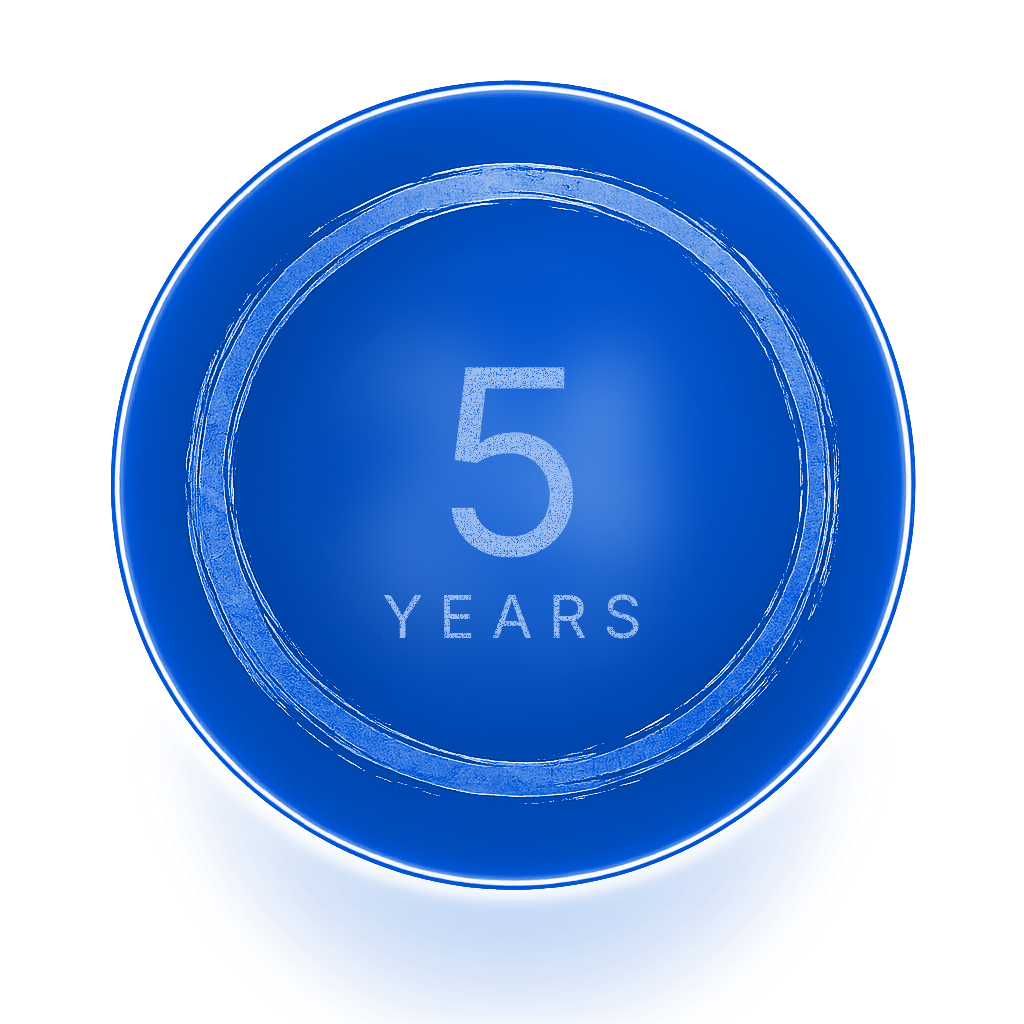
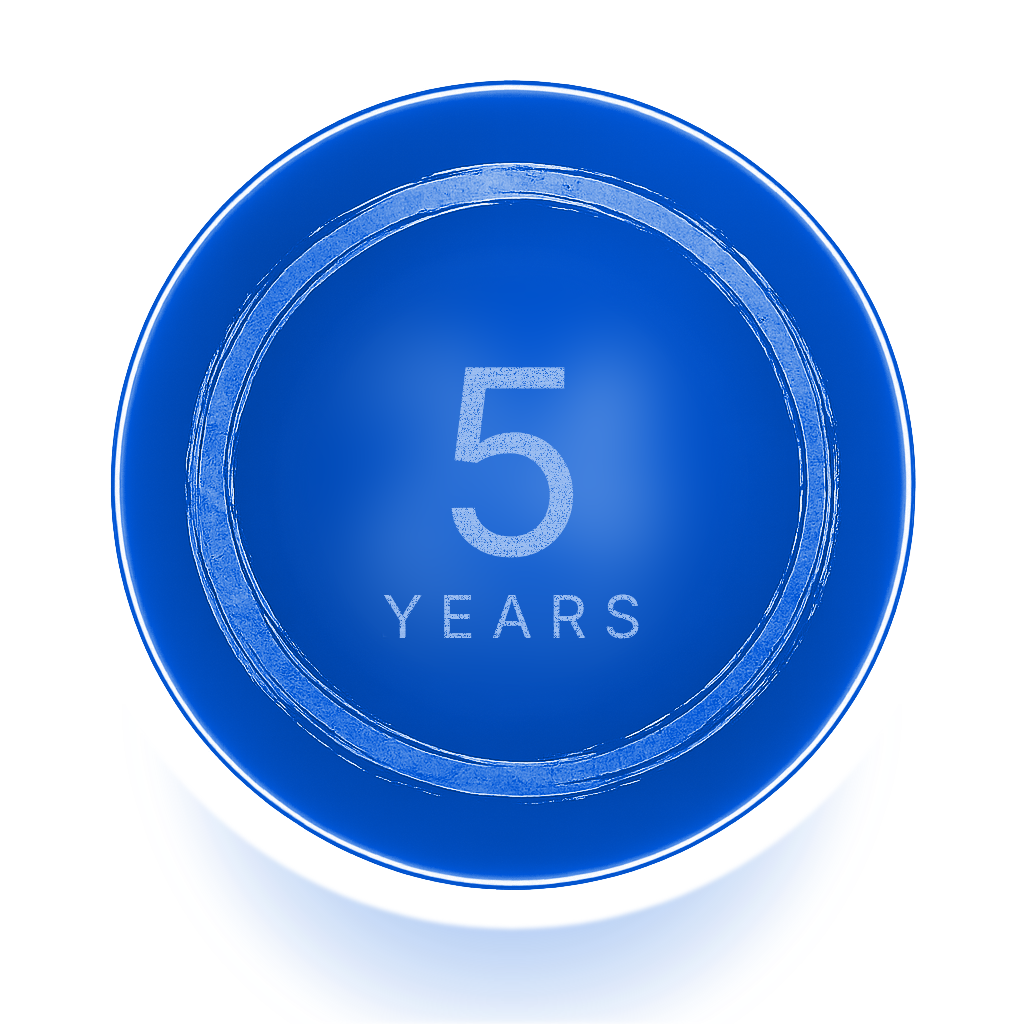
Cut disc out AFTER blur so gap below white halo stays clean
The cutout was happening before the blur — blur passes were smearing
the gradient back across the coin's white halo rim, eating the gap.
Now: build gradient, blur it on a second canvas, THEN cut the disc out
at r=445. The cutout edge stays sharp against the coin even after the
soft falloff downward. Small final blur (2px) softens the cutout edge
itself so it doesn't read as a hard line.

https://claude.ai/code/session_01TqmVcPLJNZuf7Q6XCPWgNk

Changed region(s): [[0.2188, 0.7812, 0.7812, 0.9062]]

diff --git a/scripts/generate-badges.ts b/scripts/generate-badges.ts
@@ -293,12 +293,10 @@ function applyTint(ctx: SKRSContext2D, hex: string) {
 }
 
 // Soft shadow under the coin that hugs its bottom curvature. Built from
-// a radial gradient anchored inside the lower half of the disc — the
-// disc itself is then carved out, leaving the gradient visible only
-// below the coin. Because the gradient is radial it falls off in every
-// direction (outward AND laterally), so the shadow naturally tapers
-// smaller toward the sides of the coin instead of having hard angular
-// ends. Heavy blur + lowered opacity make it read as shadow, not band.
+// a radial gradient that's heavily blurred for a diffuse-shadow read,
+// then masked by a disc cutout AFTER the blur so the gap between the
+// coin's white halo line and the start of the glow stays clean (instead
+// of the blur smearing the gradient back over the rim).
 function drawUnderGlow(ctx: SKRSContext2D, hex: string) {
   const [r, g, b] = hexToRgb(hex)
   const a = 0.4
@@ -306,44 +304,51 @@ function drawUnderGlow(ctx: SKRSContext2D, hex: string) {
   const lg = Math.round(g + (255 - g) * a)
   const lb = Math.round(b + (255 - b) * a)
 
-  const off = createCanvas(SIZE, SIZE)
-  const octx = off.getContext('2d')
-
-  // Gradient center sits inside the lower half of the disc so the
-  // visible part (after disc cutout) peaks right at the coin's bottom
-  // edge and fades laterally + downward.
+  // Build the unblurred gradient on its own canvas.
+  const src = createCanvas(SIZE, SIZE)
+  const sctx = src.getContext('2d')
   const gx = CX
   const gy = CY + 220
   const innerR = 60
   const outerR = 360
-
-  const grad = octx.createRadialGradient(gx, gy, innerR, gx, gy, outerR)
-  grad.addColorStop(0, `rgba(${lr}, ${lg}, ${lb}, 0.55)`)
-  grad.addColorStop(0.45, `rgba(${lr}, ${lg}, ${lb}, 0.25)`)
+  const grad = sctx.createRadialGradient(gx, gy, innerR, gx, gy, outerR)
+  grad.addColorStop(0, `rgba(${lr}, ${lg}, ${lb}, 0.7)`)
+  grad.addColorStop(0.45, `rgba(${lr}, ${lg}, ${lb}, 0.3)`)
   grad.addColorStop(1, `rgba(${lr}, ${lg}, ${lb}, 0)`)
-  octx.fillStyle = grad
-  octx.fillRect(0, 0, SIZE, SIZE)
+  sctx.fillStyle = grad
+  sctx.fillRect(0, 0, SIZE, SIZE)
 
-  // Cut the disc out so the shadow is visible only below the coin.
-  // Cutout radius is bumped past the disc's actual edge (395) so a small
-  // gap separates the master halo's white rim from the start of the glow.
-  octx.globalCompositeOperation = 'destination-out'
-  octx.fillStyle = '#000'
-  octx.beginPath()
-  octx.arc(CX, CY, 418, 0, Math.PI * 2)
-  octx.fill()
+  // Stack-blur the gradient on a second canvas to build the diffuse
+  // shadow look. The cutout happens on this canvas afterward so the
+  // edge against the coin stays clean.
+  const blurred = createCanvas(SIZE, SIZE)
+  const bctx = blurred.getContext('2d')
+  bctx.globalAlpha = 0.55
+  bctx.filter = 'blur(30px)'
+  bctx.drawImage(src, 0, 0)
+  bctx.globalAlpha = 0.75
+  bctx.filter = 'blur(14px)'
+  bctx.drawImage(src, 0, 0)
+  bctx.globalAlpha = 0.9
+  bctx.filter = 'blur(4px)'
+  bctx.drawImage(src, 0, 0)
+  bctx.globalAlpha = 1
+  bctx.filter = 'none'
 
-  // Composite with stacked blurs for a soft, diffuse shadow read.
+  // Cut the disc out AFTER the blur so the gap between the coin's
+  // white halo rim and the start of the glow stays sharp. Cutout
+  // radius is well outside the master halo (~410) for a visible gap.
+  bctx.globalCompositeOperation = 'destination-out'
+  bctx.fillStyle = '#000'
+  bctx.beginPath()
+  bctx.arc(CX, CY, 445, 0, Math.PI * 2)
+  bctx.fill()
+
+  // Slight final blur to soften the cutout edge so it doesn't read
+  // as a hard line.
   ctx.save()
-  ctx.globalAlpha = 0.55
-  ctx.filter = 'blur(28px)'
-  ctx.drawImage(off, 0, 0)
-  ctx.globalAlpha = 0.7
-  ctx.filter = 'blur(12px)'
-  ctx.drawImage(off, 0, 0)
-  ctx.globalAlpha = 0.9
-  ctx.filter = 'blur(4px)'
-  ctx.drawImage(off, 0, 0)
+  ctx.filter = 'blur(2px)'
+  ctx.drawImage(blurred, 0, 0)
   ctx.restore()
 }
 
